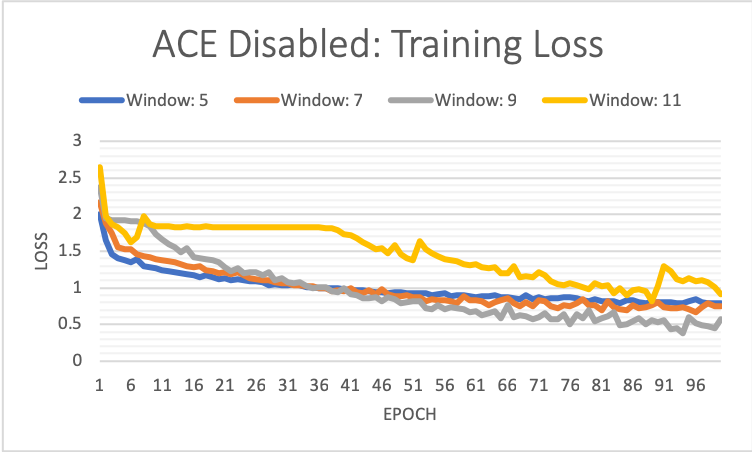
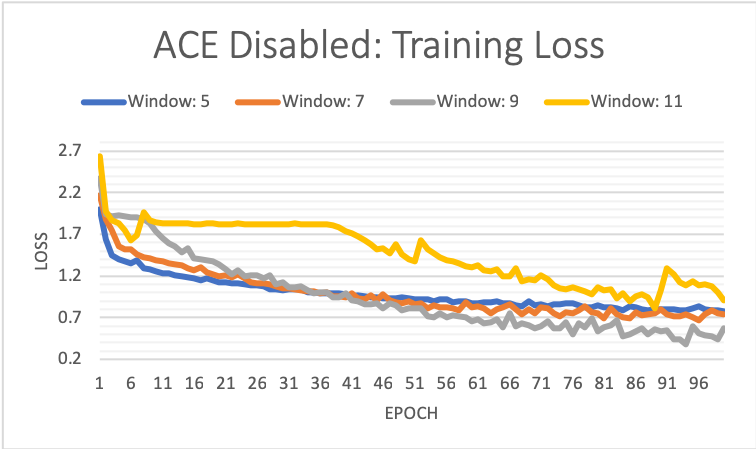
Update paper

diff --git a/paper/acenet-paper.tex b/paper/acenet-paper.tex
@@ -151,6 +151,23 @@ The results of this experiment are shown in Figure \ref{figure:noace}.
 	\end{subfigure}
 \end{figure*}
 
+
+
+\begin{figure*}
+	\label{figure:withace}
+	\centering
+	\caption{ACENet results on IP after 80/20 validation split using various window and stride sizes}
+	\begin{subfigure}{0.45\linewidth}
+		\includegraphics[width=\linewidth]{ace-enabled-loss.png}
+		\caption{Training Loss}
+	\end{subfigure}
+	\hfill
+	\begin{subfigure}{0.45\linewidth}
+		\includegraphics[width=\linewidth]{ace-enabled-valacc.png}
+		\caption{Training Loss}		
+	\end{subfigure}
+\end{figure*}
+
 As Figure \ref{figure:noace} shows, the results of ACE Disabled HSI classification are not extraordinary.
 %
 The best validation accuracy is a measly 0.664, which occurs with a window size of 9 after 14 epochs of training.
